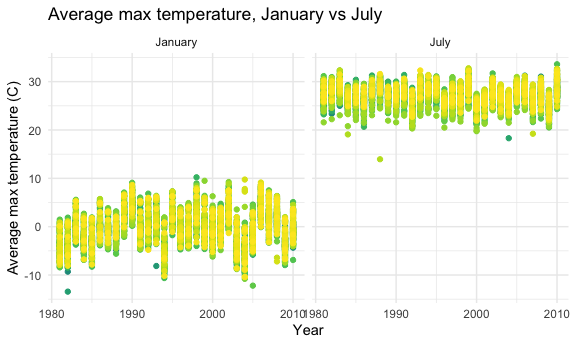
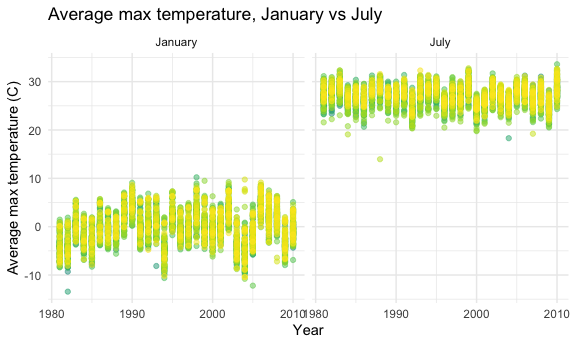
change transparency on avg tmax plot

diff --git a/p8105_hw3_amw2275.md b/p8105_hw3_amw2275.md
@@ -275,7 +275,7 @@ noaa_df %>%
   group_by(id, year, month) %>% 
   summarize(avg_tmax = mean(tmax, na.rm = TRUE)) %>% 
   ggplot(aes(x = year, y = avg_tmax, color = id)) +
-  geom_point(show.legend = FALSE) +
+  geom_point(show.legend = FALSE, alpha = 0.5) +
   facet_grid(. ~ month) +
   labs(
     title = "Average max temperature, January vs July",
